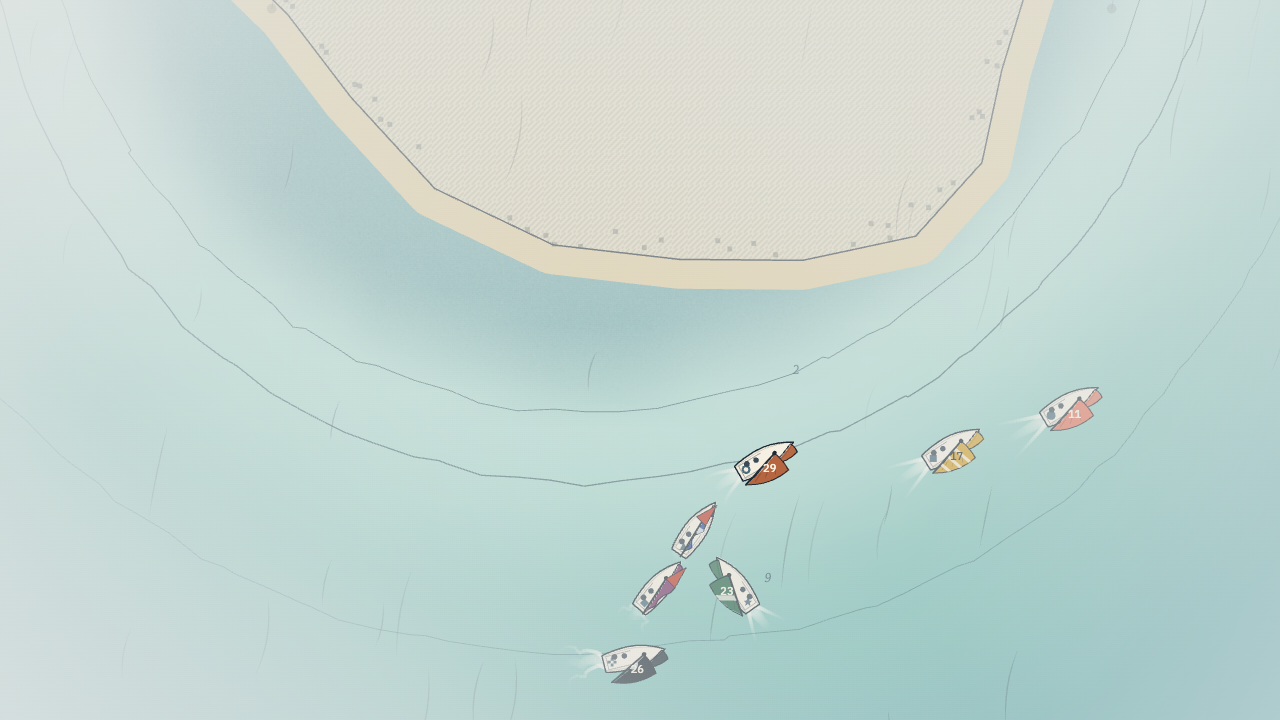
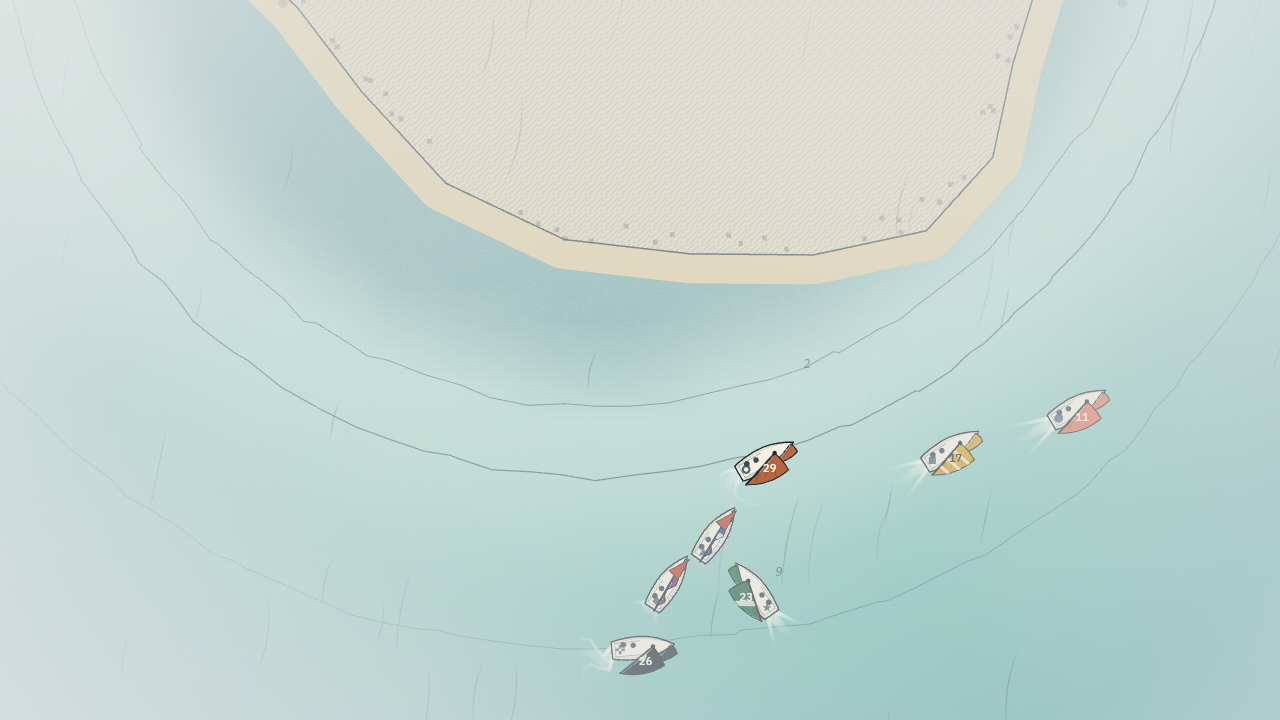
Store art: the plotted beat from a seed that tacks

diff --git a/game/js/poster.js b/game/js/poster.js
@@ -90,13 +90,13 @@ const SCENES = {
   // The beat as plotted: every boat's tacks up to the windward mark, inked in its sail's colour (the results view).
   thumb4: (view) =>
     raceScene(view, {
-      race: { seed: 38, courseId: 1, laps: 2, weather: 'shifty', rules: 'racing', entries: botEntries(38, 8, [3, 3, 2, 2, 3, 2, 3, 2]), meId: null, preStart: 60, looks: liveryLooks(8) },
-      t: 193,
+      race: { seed: 51, courseId: 1, laps: 2, weather: 'shifty', rules: 'racing', entries: botEntries(51, 8, [3, 3, 2, 2, 3, 2, 3, 2]), meId: null, preStart: 60, looks: liveryLooks(8) },
+      t: 184,
       plot: true,
       cones: 0,
       camera: (s) => {
         const W = s.race.course.targets[1];
-        return { x: W.x + 3, y: W.y + 43, zoom: 7.4 };
+        return { x: W.x - 6, y: W.y + 36, zoom: 8.4 };
       },
     }),
   // The liveries, burgees and wake styles side by side (not store art).
